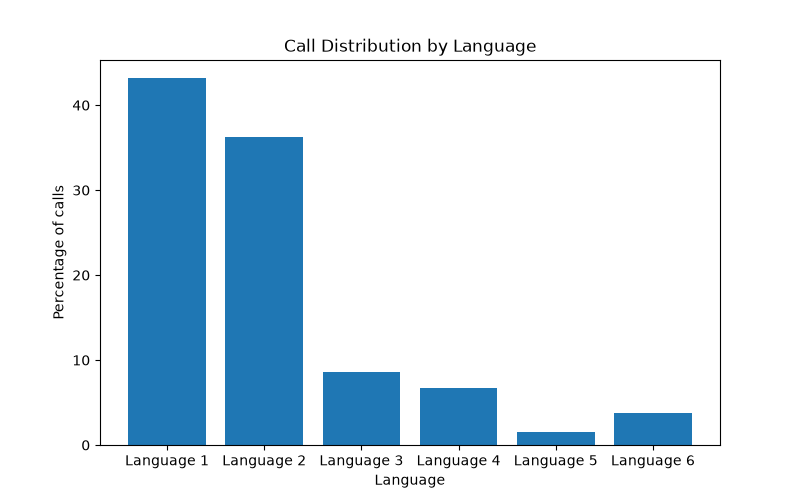
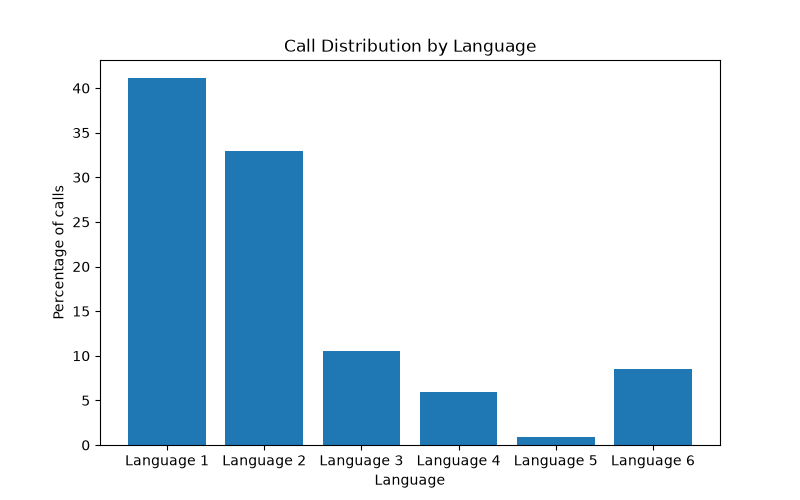
wfm-agent-project: Category A fully connected (8/8 tools) - added talktime, compare_days, forecast, forecast_weekday, distribution, and timezone nodes; fixed 3 supervisor routing bugs (missing talktime in allowed responses, ambiguous extraction condition, overly strict lob/language/date requirement)

diff --git a/wfm-agent-project/src/agents/supervisor.py b/wfm-agent-project/src/agents/supervisor.py
@@ -8,7 +8,18 @@ from rag.search import search, cached_search
 from langgraph.graph import StateGraph, START, END
 from langchain_google_genai import ChatGoogleGenerativeAI
 from config import GEMINI_API_KEY
-from tools.wfm_data import load_wfm_data, get_daily_metrics, calculate_service_level, get_talktime_by_period
+from tools.wfm_data import (
+    load_wfm_data,
+    get_daily_metrics,
+    calculate_service_level,
+    get_talktime_by_period,
+    compare_two_days,
+    forecast_by_pattern,
+    forecast_by_weekday_pattern,
+    get_monthly_distribution_by_language,
+    plot_language_distribution,
+    add_timezone_column
+)
 from google.genai.types import AutomaticFunctionCallingConfig
 
 
@@ -205,6 +216,115 @@ def talktime_node(state: State) -> dict:
     return {"tool_result": combined_text}
 
 
+def compare_days_node(state: State) -> dict:
+    """Compares WFM metrics between two days and formats the result as text.
+
+    Args:
+        state: the current graph state, containing language, lob, date,
+            and date2
+
+    Returns:
+        A dict with the "tool_result" key, containing the comparison
+    """
+    result = compare_two_days(df, state["language"], state["lob"], state["date"], state["date2"])
+
+    combined_text = ""
+    for key, value in result.items():
+        combined_text += f"{key}: {value}\n"
+
+    return {"tool_result": combined_text}
+
+
+def forecast_node(state: State) -> dict:
+    """Forecasts call volume distribution for a historical date, formatted as text.
+
+    Args:
+        state: the current graph state, containing language, lob, date,
+            and target_volume
+
+    Returns:
+        A dict with the "tool_result" key, containing the forecast
+    """
+    target_volume = int(state["target_volume"])
+    result = forecast_by_pattern(df, state["language"], state["lob"], state["date"], target_volume)
+
+    combined_text = ""
+    for key, value in result.items():
+        combined_text += f"{key}: {value}\n"
+
+    return {"tool_result": combined_text}
+
+
+def forecast_weekday_node(state: State) -> dict:
+    """Forecasts call volume distribution based on a weekday's pattern, formatted as text.
+
+    Args:
+        state: the current graph state, containing language, lob, weekday,
+            and target_volume
+
+    Returns:
+        A dict with the "tool_result" key, containing the forecast
+    """
+    target_volume = int(state["target_volume"])
+    result = forecast_by_weekday_pattern(df, state["language"], state["lob"], state["weekday"], target_volume)
+
+    combined_text = ""
+    for key, value in result.items():
+        combined_text += f"{key}: {value}\n"
+
+    return {"tool_result": combined_text}
+
+
+def distribution_node(state: State) -> dict:
+    """Calculates monthly call distribution by language, generates a
+    chart, and formats the result as text.
+
+    Args:
+        state: the current graph state, containing lob
+
+    Returns:
+        A dict with the "tool_result" key, containing the distribution
+        and a note about the saved chart
+    """
+    result = get_monthly_distribution_by_language(df, state["lob"])
+
+    output_dir = Path(__file__).parent.parent.parent / "data"
+    chart_path = str(output_dir / "language_distribution.png")
+    plot_language_distribution(result, chart_path)
+
+    combined_text = ""
+    for key, value in result.items():
+        combined_text += f"{key}: {value}%\n"
+    combined_text += f"\nA chart has been saved to: {chart_path}"
+
+    return {"tool_result": combined_text}
+
+
+def timezone_node(state: State) -> dict:
+    """Adds a timezone-shifted column and formats a sample as text.
+
+    Args:
+        state: the current graph state, containing offset_hours and
+            column_name
+
+    Returns:
+        A dict with the "tool_result" key, containing a sample of the
+        shifted times
+    """
+    offset_hours = int(state["offset_hours"])
+    column_name = state["column_name"]
+
+    updated_df = add_timezone_column(df, offset_hours, column_name)
+
+    sample = updated_df[["Intvl_UTC", column_name]].drop_duplicates().head(10)
+
+    combined_text = ""
+    for _, row in sample.iterrows():
+        combined_text += f"{row['Intvl_UTC']} -> {row[column_name]}\n"
+
+    return {"tool_result": combined_text}
+
+
 
 def supervisor_node(state: State) -> dict:
     """Decides which specialist should act next, based on current state.
@@ -222,20 +342,39 @@ def supervisor_node(state: State) -> dict:
         "metrics (retrieves call metrics: offered, handled, abandoned), "
         "service_level (retrieves service level % and abandon rate %), "
         "talktime (retrieves total talk time for a date range), "
+        "compare_days (retrieves comparison of WFM metrics between two days), "
+        "forecast (retrieves the forecasted call volume), "
+        "forecast_weekday (retrieves the forecasted call volume, based on a weekday, like Monday, Tuesday, etc), "
+        "distribution (retrieves monthly call distribution percentage by language, with a chart), "
+        "timezone (shifts call times by a given offset, e.g. UTC-4), "
         "done (task complete, ready to answer).\n\n"
         "If the question is about company procedures or definitions, choose rag. "
-        "If the question is about WFM data and language, lob, AND date are "
-        "ALL still 'none', choose extractor. "
-        "Note: fields like date2, target_volume, weekday, offset_hours, and "
+        "If the question is about WFM data and lob is still 'none', choose extractor. "
+        "Note: fields like date, date2, target_volume, weekday, offset_hours, and "
         "column_name will naturally be 'none' if not relevant to the question "
-        "- this is expected and does NOT mean extraction failed.\n"
+        "- this is expected and does NOT mean extraction failed. Only lob is "
+        "always required; other fields depend on the specific question type.\n"
+        "For distribution questions, only LOB is needed - language and date "
+        "being 'none' is expected and normal for this type of question. Once "
+        "lob is extracted, proceed directly to distribution.\n"
         "If the question is about total talk time over a period, choose talktime. "
         "If parameters are already extracted and the question is about raw "
         "call counts (offered, handled, abandoned), choose metrics. "
         "If parameters are already extracted and the question is about "
         "service level or abandon rate percentages, choose service_level. "
+        "If parameters are already extracted and the question compares two "
+        "specific dates, choose compare_days. "
+        "If parameters are already extracted and the question forecasts based on "
+        "a specific historical DATE (e.g. '2015-10-20'), choose forecast. "
+        "If parameters are already extracted and the question forecasts based on "
+        "a WEEKDAY pattern (e.g. 'Monday'), choose forecast_weekday. "
+        "If parameters are already extracted and the question asks about the "
+        "percentage distribution of calls across languages, choose distribution. "
+        "If parameters are already extracted and the question asks to convert "
+        "or shift times to a different timezone/offset, choose timezone. "
         "If you already have a tool result, choose done.\n\n"
-        "Respond with EXACTLY ONE WORD: rag, extractor, metrics, service_level, talktime, or done."
+        "Respond with EXACTLY ONE WORD: rag, extractor, metrics, service_level, talktime,"
+        "compare_days, forecast, forecast_weekday, distribution, timezone or done."
     )
 
     context = f"Question: {state['question']}\n"
@@ -329,6 +468,11 @@ if __name__ == "__main__":
     workflow.add_node("metrics", wfm_metrics_node)
     workflow.add_node("service_level", service_level_node)
     workflow.add_node("talktime", talktime_node)
+    workflow.add_node("compare_days", compare_days_node)
+    workflow.add_node("forecast", forecast_node)
+    workflow.add_node("forecast_weekday", forecast_weekday_node)
+    workflow.add_node("distribution", distribution_node)
+    workflow.add_node("timezone", timezone_node)
     workflow.add_node("extractor", extract_wfm_params_node)
     workflow.add_node("writer", format_answer_node)
 
@@ -337,6 +481,11 @@ if __name__ == "__main__":
     workflow.add_edge("metrics", "supervisor")
     workflow.add_edge("service_level", "supervisor")
     workflow.add_edge("talktime", "supervisor")
+    workflow.add_edge("compare_days", "supervisor")
+    workflow.add_edge("forecast", "supervisor")
+    workflow.add_edge("forecast_weekday", "supervisor")
+    workflow.add_edge("distribution", "supervisor")
+    workflow.add_edge("timezone", "supervisor")
     workflow.add_edge("extractor", "supervisor")
     workflow.add_edge("writer", END)
 
@@ -345,7 +494,12 @@ if __name__ == "__main__":
         "extractor": "extractor",
         "metrics": "metrics",
         "service_level": "service_level",
-        "talktime":"talktime",
+        "talktime": "talktime",
+        "compare_days": "compare_days",
+        "forecast": "forecast",
+        "forecast_weekday": "forecast_weekday",
+        "distribution": "distribution",
+        "timezone": "timezone",
         "done": "writer"
     })
 
@@ -355,8 +509,23 @@ if __name__ == "__main__":
     # print("\nFinal result:")
     # print(result)
 
-    result = graph.invoke({"question": "What's the service level for Lungage tow on lob 3, on 2015-10-20?"})
-    print(result)
+    # result = graph.invoke({"question": "What's the service level for Lungage tow on lob 3, on 2015-10-20?"})
+    # print(result)
 
     # result = graph.invoke({"question": "What's the total talk time for Language 1 on LOB 1, between 2015-10-14 and 2015-10-20?"})
     # print(result)
+
+    # result = graph.invoke({"question": "Compare Language 1 on LOB 1 between 2015-10-20 and 2015-10-21"})
+    # print(result)
+
+    # result = graph.invoke({"question": "Forecast 500 calls for Language 1 on LOB 1 based on 2015-10-20 pattern"})
+    # print(result["final_answer"])
+
+    # result = graph.invoke({"question": "Forecast 1200 calls for Language 2 on LOB 1 based on Monday pattern"})
+    # print(result["final_answer"])
+
+    # result = graph.invoke({"question": "What's the call distribution by language for LOB 2?"})
+    # print(result["final_answer"])
+
+    result = graph.invoke({"question": "Show me the call times shifted by UTC-4, name the column utc_minus_4"})
+    print(result["final_answer"])
